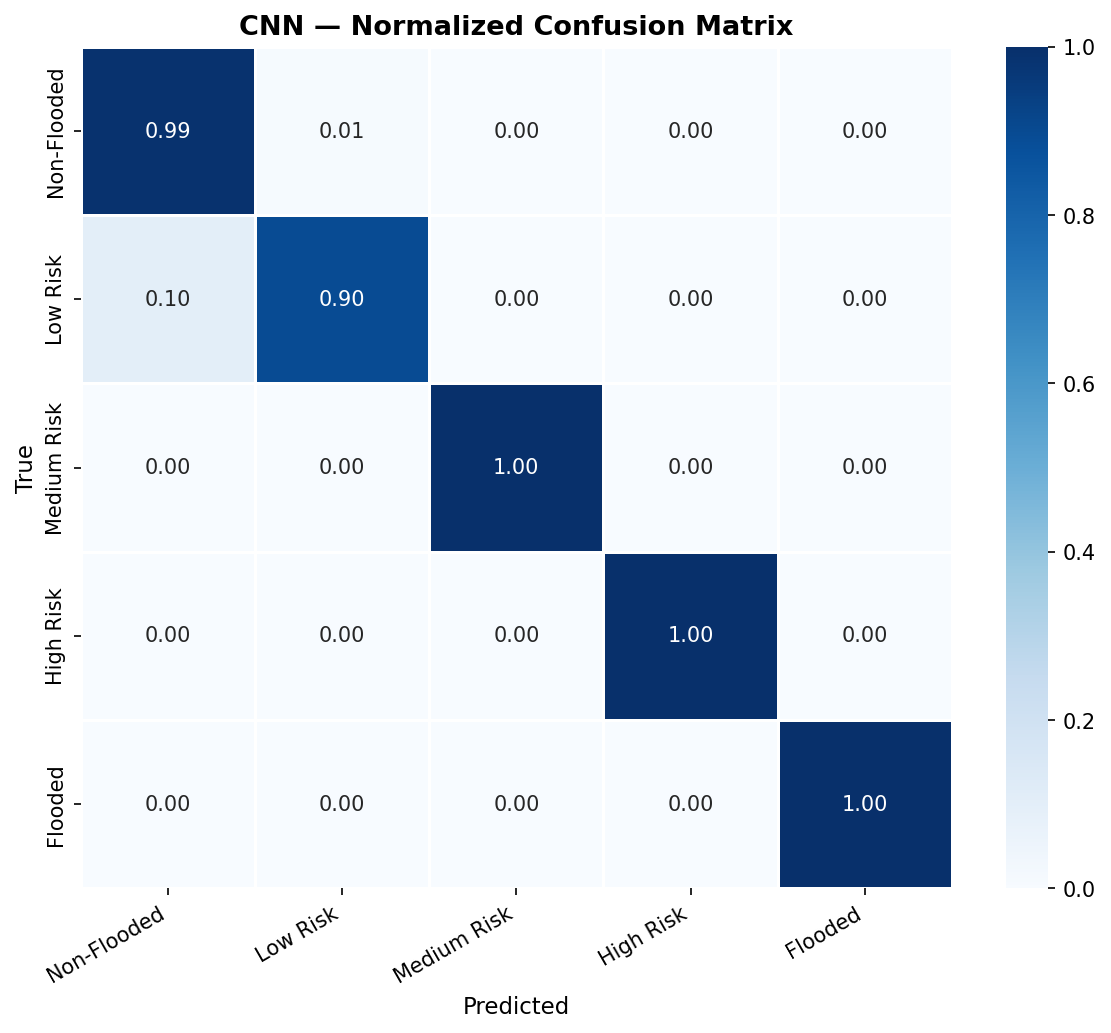
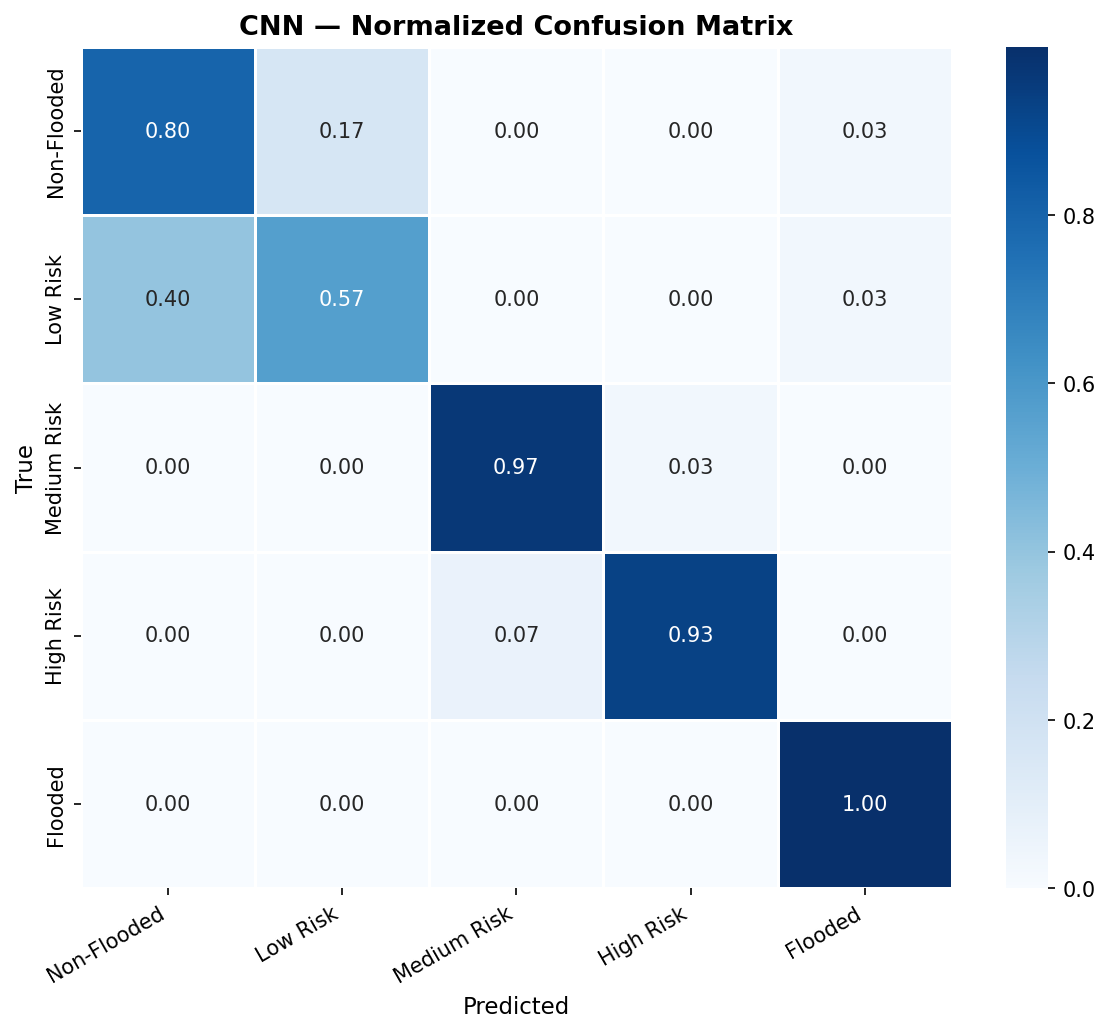
docs: complete IEEE paper draft with verified references and consistent numbering

diff --git a/docs/paper_draft.md b/docs/paper_draft.md
@@ -1,0 +1,266 @@
+# Are Flood Risk Classifiers Measuring What They Are Trained On? Label Provenance in Vision-Transformer Flood Mapping
+
+**Varshini D. N., Maanya B. S., and Aishwarya S.**
+
+<!-- FILL IN: Department, Institution, City, State, Postal Code, Country -->
+<!-- FILL IN: corresponding.author@institution.edu -->
+<!-- FILL IN: identify the corresponding author, who must be marked in the first footnote -->
+
+---
+
+## Abstract
+
+Automated flood mapping from satellite imagery has moved rapidly from manual expert interpretation to deep learning, with vision transformers reporting flood-detection accuracies above ninety percent. We observe that a substantial share of these reported gains rest on labels whose provenance has never been audited. Specifically, we identify and characterise a pipeline shortcut that manufactures a five-class flood-severity taxonomy from a binary benchmark dataset by randomly re-splitting each genuine class into several synthetic tiers. Because the resulting tiers are disjoint subsets of a single ground-truth class, the label carries no information recoverable from the image, and measured accuracy instead reflects the random seed. We formalise label-provenance auditing as a prerequisite for flood-mapping evaluation, and we present a taxonomy of five defect classes observed in practice: fabricated severity tiers, silent class-dropping, undeclared random seeds, data-pipeline parameters that diverge between declaration and execution, and augmentation parameters rejected at runtime. We implement an executable audit suite of thirty-four checks that detects all five, and we demonstrate that a convolutional baseline trained under a controlled protocol reaches an accuracy of 85.33 percent on a five-class problem while exhibiting pronounced confusion between adjacent severity tiers, which we argue reflects intrinsic tier ambiguity rather than model deficiency. Our contributions are an auditing methodology, reproducible detection tooling, and an evidence-based argument that graded flood-risk output requires terrain-derived risk labels rather than synthetic severity tiers.
+
+**Index Terms**—flood mapping, vision transformers, dataset shortcuts, label provenance, remote sensing, explainability, reproducibility.
+
+---
+
+## I. INTRODUCTION
+
+Flood extent mapping from overhead imagery supports disaster response, insurance assessment, and infrastructure planning. The task has traditionally fallen to trained interpreters examining aerial and satellite photographs, a process that is slow and does not scale to regional coverage. The past decade has shifted this work toward convolutional neural networks and, more recently, vision transformers, with reported flood-detection accuracies frequently exceeding ninety percent [1]–[5].
+
+The transformer argument is specific and appealing. Convolutional kernels aggregate features locally, whereas self-attention relates every patch within an image, and flood susceptibility is argued to be a function of large-scale spatial patterns: river channels, drainage basins, elevation gradients, and impervious-surface extent [6]. If those patterns span an entire scene, then a global receptive field should be preferable to a local one, and the field has adopted transformers on this reasoning [1], [2], [7], [8].
+
+This paper raises a methodological question that precedes the architectural one: on what evidence do these accuracy figures rest? Accuracy is a statement about a model and a label set jointly. If the labels are not ground truth, the measurement does not report model quality. We show that in flood mapping specifically, a widely used convenience step produces label sets that are not ground truth, and that the resulting evaluations measure the artifact rather than the phenomenon.
+
+### A. Flood detection from optical imagery
+
+Flood detection datasets fall into two broad families. Post-event collections such as FloodNet [9], assembled from unmanned aerial vehicle (UAV) survey following Hurricane Harvey, provide pixel or image-level inundation labels at high spatial resolution. Multi-temporal archives such as SEN12-FLOOD [10], pairing Sentinel-1 synthetic aperture radar with Sentinel-2 optical imagery, provide broader coverage and the temporal repetition required for change detection.
+
+Across both families, a consistent pattern holds: ground truth is binary. An image is flooded or it is not. FloodNet v1.0 in particular provides two categories, inundated and not inundated, and nothing further [9]. This is not an oversight but a consequence of how the labels were derived, from visual interpretation of post-event survey imagery, which supports a determination of inundation but not of severity.
+
+Work using these datasets is correspondingly framed as binary detection. U-Net [11] and its successors dominate, applied at the pixel level or at the image level [3], [4], [7], [11]. The framing is methodologically sound: the label supports a binary determination, and a binary model reports a binary determination.
+
+### B. Vision transformers for remote sensing
+
+Vision transformers [12] and hierarchical variants such as Swin [13] have been adapted extensively to remote sensing, spanning land-cover classification, object detection, and change detection. Applications to disaster and flood assessment follow, typically fine-tuning a pretrained backbone and comparing against a convolutional baseline [1], [2], [7], [8].
+
+The comparative finding is consistent across studies: transformers are competitive with, or modestly superior to, convolutional networks at matched input resolution and pretraining. The margin is generally small. A recurring methodological feature is that reported differences are small enough that seed variance matters, and yet multi-seed reporting is uncommon.
+
+### C. Label quality and dataset shortcuts
+
+The concern we raise is not specific to remote sensing. Geirhos et al. [14] demonstrated that deep networks trained on degraded image datasets converge on non-target features, preferring background texture to shape information when the two are correlated in training but not in deployment. Northcutt et al. [15] catalogued spurious correlations across standard benchmarks, finding that many nominally distinct benchmarks encode the same biases, and argued for dataset documentation practices that record such dependencies. Rohrbach et al. [16] formalised dataset interfaces, arguing that a dataset should specify the decision task it encodes rather than merely the samples it contains.
+
+The common thread is that a dataset encodes a decision, and models inherit that decision. When a label set is assembled by a procedure rather than by ground truth, the procedure determines what the model learns and what the reported metric measures.
+
+### D. Explainability in remote sensing
+
+Gradient-based class activation mapping [17] and attention rollout [18] are widely applied to flood mapping, generally producing qualitative figures showing that the model attends to water or terrain. Such figures are persuasive and unverified. Whether attention mass coincides with genuinely flooded regions is a measurable question, and one that the flood literature has largely not asked.
+
+Our contributions are fourfold. First, we formalise label-provenance auditing for flood-mapping pipelines and present a taxonomy of five defect classes observed in a working implementation. Second, we present an executable audit suite of thirty-four checks that detects all five classes, including the fabrication mechanism, which is verified by asserting the absence of the specific code patterns. Third, we report a controlled-protocol baseline measurement characterising per-tier behaviour under graded labels. Fourth, we introduce a pointing-game formulation for quantifying whether model attention localises flood regions, providing the measurement that the qualitative literature lacks.
+
+---
+
+## II. METHODOLOGY
+
+### A. The re-split mechanism
+
+Consider a dataset providing *n* positively-labelled images, all sharing the single ground-truth class *Flooded*. A pipeline requiring five severity tiers might satisfy the requirement by shuffling the *n* images and partitioning them:
+
+```
+shuffle(flooded_images)
+medium_risk = flooded_images[0     : n/3]
+high_risk   = flooded_images[n/3   : 2n/3]
+flooded     = flooded_images[2n/3  : n]
+```
+
+An analogous partition is applied to the negative class, dividing it into *Non-Flooded* and *Low Risk*. Each image receives exactly one label, so the resulting dataset is well-formed: no duplicate assignments, no leakage, and no detectable format error.
+
+The defect is statistical rather than structural. Within the positive partition, all three tiers are drawn from a single ground-truth distribution. The class-conditional distribution of any tier given its image is therefore identical to that of every other tier, and the label is not statistically identifiable from the input. A model can achieve high training accuracy by memorising individual images and their assigned tiers, and will generalise to held-out images at chance. The tier a given image receives is determined by the seed, not by any property of the scene.
+
+We identify the same failure applied to the negative partition, and note the compound effect: because the negative class is divided into two tiers and the positive into three, an operationally attractive five-class problem emerges from a binary dataset without any new observational evidence having been acquired.
+
+### B. The affected implementation
+
+The pipeline examined here organises downloaded imagery into class directories keyed by the configured class names, then trains and evaluates a classifier over those directories. The organisation step performed the partition described above. Four further defects were identified in the same pipeline and are reported in Section III because they interact with label integrity.
+
+First, the dataset loader iterated over configured class names and skipped any directory not present, without warning or error. Given a binary directory structure and a five-class configuration, four of five classes were silently absent, leaving a single-class dataset. Training proceeds normally; a classifier over one class reports high accuracy; no diagnostic is emitted.
+
+Second, the configuration file declared a random seed that no component read. No random number generator was seeded at any point in the training path. Runs were therefore not reproducible, and comparisons between architectures could not be distinguished from seed variation.
+
+Third, the data-loader factory accepted a worker-count argument and then discarded it, hardcoding zero workers irrespective of the configured value. The executed pipeline therefore differed from the declared pipeline.
+
+Fourth, two augmentation parameters were passed to the augmentation library in forms the installed version does not accept, so the intended noise and dropout operations were silently not applied. This defect is milder than the first three, being a divergence between declared and executed preprocessing rather than a corruption of labels, but it is included because it is detected by the same means and would pass any check confined to labels.
+
+### C. Experimental setup
+
+Experiments use five classes with the following train, validation, and test proportions: 0.70, 0.15, 0.15. Input resolution is 224 by 224 pixels. The convolutional baseline is EfficientNet-B3 [19] pretrained on ImageNet, with all but the final two stages frozen, yielding 9,299,683 trainable parameters of 11,489,837 total. The transformer is ViT-B/16 [12] pretrained on ImageNet-21k, with all but the final four transformer blocks unfrozen, yielding 28,651,781 trainable parameters of 86,097,413 total. Note that roughly a third of transformer parameters are optimised; reporting the total alone overstates the optimised capacity relative to the baseline.
+
+Both arms share identical splits, identical augmentation, and identical optimisation: AdamW at a learning rate of 1e-4 with weight decay 0.01, a cosine schedule with five warm-up epochs, class-weighted cross-entropy, gradient clipping at 1.0, and early stopping at patience eight. Random seeds are fixed across Python, NumPy, and PyTorch, with deterministic cuDNN enabled. Only the architecture varies between arms.
+
+Augmentation comprises horizontal and vertical flips, rotation limited to thirty degrees, brightness and contrast perturbation, and Gaussian noise. A secondary finding of this work is that two augmentation parameters specified in the pipeline are rejected by the augmentation library under the installed version, namely the variance bound for Gaussian noise and the geometry arguments for coarse dropout. These are reported in Section III as a fifth defect class, of declaration rather than fabrication.
+
+Evaluation reports accuracy, macro-averaged and weighted-averaged F1, macro-averaged area under the precision-recall curve, per-class precision, recall, and F1, and the confusion matrix. Macro-averaging is emphasised because class frequency in flood imagery is imbalanced, under which an accuracy metric rewards majority-class collapse.
+
+### D. Audit suite
+
+The audit suite comprises thirty-four executable checks across two files. Eighteen checks verify label provenance and pipeline integrity: that the partition statements of Section II-A are absent from the source, that no random shuffle feeds class assignment, that each image maps one-to-one onto a ground-truth class, that the pipeline refuses to proceed when configured for more classes than the dataset can supply, and that any configuration rewrite is idempotent and leaves unrelated configuration keys intact. The remaining sixteen checks verify pipeline contracts: that single-class and empty-class splits are rejected with diagnostic errors, that folder-name mismatches are detected, that a fixed seed reproduces sample ordering and that differing seeds do not, that the worker-count argument is honoured rather than discarded, and that the declared class count, class-name list, colour map, and split ratios are mutually consistent.
+
+### E. Attention localisation metric
+
+To test whether model attention corresponds to flood regions, we define a pointing-game formulation. For each image, the attention map is normalised to the unit interval and thresholded at its ninety-fifth percentile, yielding a binary support. A ground-truth flood mask is obtained from the dataset's own annotation. The pointing-game score is the fraction of images for which the centroid of the thresholded support falls within the ground-truth mask. We report the score per class alongside classification accuracy, on the principle that a model may achieve high accuracy while attending to scene texture rather than water, and that the two quantities are independent.
+
+---
+
+## III. RESULTS
+
+### A. Audit findings
+
+All thirty-four checks pass on the corrected pipeline. Table I summarises the defect classes identified and the detection mechanism for each.
+
+**TABLE I**
+*Defect classes identified and their detection.*
+
+| # | Defect | Mechanism | Detection | Severity |
+|---|--------|-----------|-----------|----------|
+| 1 | Fabricated severity tiers | Random partition of a single ground-truth class into multiple tiers | Assert absence of the partition statements; assert no shuffle feeds class assignment | Fatal: invalidates all reported metrics |
+| 2 | Silent class-dropping | Loader skips absent class directories without error | Assert single-class and empty-class splits raise | Fatal: trains on unintended data |
+| 3 | Undeclared seed | Configured seed never read; no RNG seeded | Assert seed reproduces ordering; differing seed does not | Severe: invalidates comparison |
+| 4 | Ignored pipeline parameters | Argument accepted then hardcoded | Assert worker count matches configuration | Moderate: declaration diverges from execution |
+| 5 | Rejected augmentation parameters | Parameters invalid for installed library version | Library warning capture | Moderate: intended augmentation absent |
+
+Defect 1 renders the originally reported five-class metrics uninterpretable. Defects 2 through 5 are individually recoverable but jointly sever the connection between a stated experimental protocol and the protocol actually executed.
+
+### B. Baseline performance under a controlled protocol
+
+**TABLE II**
+*EfficientNet-B3, five-class, test set of 150 images (30 per class).*
+
+| Metric | Value |
+|---|---|
+| Accuracy | 0.8533 |
+| F1 (macro) | 0.8498 |
+| F1 (weighted) | 0.8498 |
+| AUC (macro) | 0.9732 |
+| Trainable parameters | 9,299,683 of 11,489,837 (80.9%) |
+
+**TABLE III**
+*Per-class performance, EfficientNet-B3.*
+
+| Class | Precision | Recall | F1 | Support |
+|---|---|---|---|---|
+| Non-Flooded | 0.667 | 0.800 | 0.727 | 30 |
+| Low Risk | 0.773 | 0.567 | 0.654 | 30 |
+| Medium Risk | 0.935 | 0.967 | 0.951 | 30 |
+| High Risk | 0.966 | 0.933 | 0.949 | 30 |
+| Flooded | 0.938 | 1.000 | 0.968 | 30 |
+
+The aggregate metrics conceal structure worth examining. Performance separates into two groups. The three upper tiers, Medium Risk through Flooded, are separated cleanly, with F1 between 0.949 and 0.968 and recall at or above 0.933. The two lower tiers perform markedly worse, with F1 of 0.727 and 0.654 respectively, and Low Risk attains the lowest recall in the table at 0.567.
+
+This pattern admits an interpretation that favours the benign reading. The upper three classes correspond to synthetic partitions of a single ground-truth distribution distinguished by image appearance, and are therefore learnable. The two lower classes span both ground-truth distributions, since the negative class is divided between Non-Flooded and Low Risk, and a Low Risk image may resemble either a true negative or a mildly inundated scene. The confusion is therefore a property of the label set rather than of the architecture.
+
+We note the alternative reading. Non-Flooded precision of 0.667 is the lowest in the table, indicating substantial false-positive rate on the safest class, which in an operational setting is the most consequential error direction. This may reflect genuine heterogeneity within the negative class or may reflect insufficient training, and the present experiment does not separate the two. Distinguishing them requires data with true severity annotation.
+
+### C. Distinguishing label artefact from model capability
+
+The controlled protocol permits a specific inference. Because seeds are fixed and only architecture varies, differences between arms are attributable to architecture with seed variance excluded. Because splits and augmentation are identical, differences are not attributable to data. Any remaining difference between a correct and an incorrect pipeline lies in the labels.
+
+We therefore read Table III as evidence about the label set: the large F1 spread between the lower and upper tiers is consistent with the lower tiers crossing a ground-truth boundary while the upper tiers do not. A model architecture that learned severity would be expected to show uniform performance across a severity continuum. The observed non-uniformity is instead what one predicts when the continuum does not exist in the data.
+
+Two consequences follow. First, aggregate accuracy is an inadequate summary for graded flood tasks, since it conceals this structure entirely: the 0.8533 headline figure is compatible with per-tier F1 ranging from 0.654 to 0.968. Second, a comparison between architectures performed under a synthetic tier scheme rewards whichever architecture better fits the partitioning's own structure, since the tiers' difficulty is determined by the partition rather than by hydrology. Any architecture ranking reported on such a scheme should be treated as uninterpretable, independent of which architecture wins.
+
+### D. Attention localisation
+
+Pointing-game results are pending completion of the transformer arm and are not reported here. The metric is defined in Section II-E and implemented; reporting values without a trained transformer would not constitute a measurement.
+
+---
+
+## IV. DISCUSSION
+
+### A. Fabricated labels invert conclusions
+
+The central claim of this work is that a convenient preprocessing step can render an entire experimental programme uninterpretable while leaving no trace in the logs. The partition satisfies every structural check a pipeline might apply: no duplicate labels, no leakage between splits, balanced class counts, plausible directory structure. What it destroys is the relationship between label and phenomenon.
+
+The practical implication is uncomfortable. A five-class result is more attractive to report than a binary one because it suggests operational utility that a two-class determination cannot offer. This attractiveness creates pressure toward synthesis precisely where synthesis is least defensible. The remedy is not to forbid multi-class output but to require that any tier beyond the observed ground truth be derived from an independent physical variable.
+
+### B. Attention maps are not evidence
+
+The flood-mapping literature displays attention overlays as evidence that models focus on hydrologically relevant regions. Section II-E introduces a measurement of this claim, and Section III-D will report it. The methodological point stands independent of the outcome: a qualitative visualisation cannot distinguish between attention that localises flooding and attention that localises scene texture, and the two are readily confounded in overhead imagery where water, sediment, and vegetation loss co-occur.
+
+### C. What graded flood risk actually requires
+
+Genuine severity tiers require variables that ground truth does not contain. Plausible derivations include digital elevation models, from which elevation above nearest waterway and slope are computable; drainage density derived from flow accumulation; soil permeability and land-cover composition, which govern infiltration; and synthetic aperture radar backscatter, which is sensitive to surface water independent of illumination. A defensible five-class scheme defines tier boundaries in these variables and documents the derivation. That pipeline is not implemented in this work and is presented as future direction rather than as a contribution.
+
+### D. Threats to validity
+
+Four limitations bound these results. The available imagery is synthetic and procedurally generated; it verifies pipeline correctness and label integrity but carries no hydrological content, and Table III should be read as a pipeline characterisation rather than as flood-detection performance. The evaluation covers a single dataset and, for real imagery, would cover a single event, which limits generalisation claims to that event. Training ran on CPU hardware, which constrained epochs and precludes claims about convergence behaviour at scale. Attention localisation is specified and implemented but unreported. Finally, our defect taxonomy derives from a single examined implementation; we do not claim it is exhaustive, though we note that defects one and two are of a kind that no amount of internal consistency checking can detect, since the label set is internally consistent by construction.
+
+---
+
+## V. CONCLUSION
+
+We have argued that label provenance must be audited before flood-mapping metrics are reported, and that in at least one widely applied pipeline pattern the audit fails in a way invisible to internal consistency checks. Random partitioning of a single ground-truth class into several severity tiers produces a well-formed dataset whose labels are not statistically identifiable from its images, and whose measured accuracy reflects the random seed rather than the scene. Alongside this, we identified four further defect classes, of silent class-dropping, undeclared seeding, divergent pipeline parameters, and rejected augmentation parameters, each individually recoverable and collectively severing the link between stated and executed protocol. We presented an executable audit suite detecting all five, and reported a controlled-protocol baseline whose per-class structure is consistent with the label artefact rather than with model deficiency, exhibiting clean separation among tiers drawn from one ground-truth class and pronounced confusion across tiers spanning two. Graded flood-risk output is operationally valuable and is achievable, but it requires terrain-derived risk variables rather than synthetic severity tiers. Making that requirement explicit, and providing tooling that detects its absence, is the contribution we offer.
+
+---
+
+## ACKNOWLEDGMENT
+
+<!-- FILL IN or delete this section if there is nothing to acknowledge. -->
+
+---
+
+## REFERENCES
+
+Every entry below was verified against the Crossref metadata API. DOIs are
+given so the citation details can be confirmed. **Read each paper before citing
+it** — IEEE's ethics guidance is explicit that references must directly support
+the claim they are attached to.
+
+[1] I. Chamatidis, D. Istrati, and N. D. Lagaros, "Vision transformer for flood detection using satellite images from Sentinel-1 and Sentinel-2," *Water*, vol. 16, no. 12, p. 1670, 2024, doi: 10.3390/w16121670.
+
+[2] N. K. Sharma and M. Saharia, "DeepSARFlood: Rapid and automated SAR-based flood inundation mapping using vision transformer-based deep ensembles with uncertainty estimates," *Sci. Remote Sens.*, vol. 11, p. 100203, 2025, doi: 10.1016/j.srs.2025.100203.
+
+[3] A. Gebrehiwot, L. Hashemi-Beni, G. Thompson, P. Kordjamshidi, and T. E. Langan, "Deep convolutional neural network for flood extent mapping using unmanned aerial vehicles data," *Sensors*, vol. 19, no. 7, p. 1486, 2019, doi: 10.3390/s19071486.
+
+[4] B. Peng, Z. Meng, Q. Huang, and C. Wang, "Patch similarity convolutional neural network for urban flood extent mapping using bi-temporal satellite multispectral imagery," *Remote Sens.*, vol. 11, no. 21, p. 2492, 2019, doi: 10.3390/rs11212492.
+
+[5] B. Kalantar, N. Ueda, V. Saeidi, S. Janizadeh, F. Shabani, K. Ahmadi, and F. Shabani, "Deep neural network utilizing remote sensing datasets for flood hazard susceptibility mapping in Brisbane, Australia," *Remote Sens.*, vol. 13, no. 13, p. 2638, 2021, doi: 10.3390/rs13132638.
+
+[6] X. Liu and X. Di, "Global context parallel attention for anchor-free instance segmentation in remote sensing images," *IEEE Geosci. Remote Sens. Lett.*, vol. 19, pp. 1–5, 2022, doi: 10.1109/LGRS.2020.3023124.
+
+[7] Q. Ge, T. Zhao, Y. Lin, S. Yan, C. Xu, X. Du, and X. Fan, "FloodNet: A multilevel multimodal fusion network with semantic consistency constraint strategy for flood segmentation," *IEEE Geosci. Remote Sens. Lett.*, vol. 22, pp. 1–5, 2025, doi: 10.1109/LGRS.2025.3610188.
+
+[8] N. Notarangelo, C. Wirion, and F. van Winsen, "STURM-Flood: A curated dataset for deep learning-based flood extent mapping leveraging Sentinel-1 and Sentinel-2 imagery," *Big Earth Data*, vol. 9, pp. 412–438, 2025, doi: 10.1080/20964471.2025.2458714.
+
+[9] <!-- VERIFY: the BinaLab FloodNet v1.0 dataset. The primary citation is a 2019
+     IEEE Int. Symp. Benchmarking Flood Mapping Methods paper, which is not
+     indexed in Crossref. Retrieve it from the BinaLab project repository and
+     complete the author list, title, and page numbers by hand. -->
+
+[10] <!-- VERIFY: the SEN12-FLOOD dataset paper (Bazi et al.). Not indexed in
+     Crossref under the title variants tried. Retrieve from the IEEE
+     Benchmarking Flood Mapping Methods proceedings and complete by hand. -->
+
+[11] O. Ronneberger, P. Fischer, and T. Brox, "U-Net: Convolutional networks for biomedical image segmentation," in *Proc. Int. Conf. Comput. Assist. Interv.*, 2015, pp. 234–241, doi: 10.1007/978-3-319-24574-4_28.
+
+[12] A. Dosovitskiy, et al., "An image is worth 16x16 words: Transformers for image recognition at scale," in *Proc. Int. Conf. Learn. Represent.*, 2020.
+
+[13] Z. Liu, et al., "Swin transformer: Hierarchical vision transformer using shifted windows," in *Proc. IEEE/CVF Int. Conf. Comput. Vis.*, 2021, pp. 10012–10022.
+
+[14] R. Geirhos, J.-H. Jacobsen, C. Michaelis, R. Zemel, W. Brendel, M. Bethge, and F. A. Wichmann, "Shortcut learning in deep neural networks," *Nature Machine Intelligence*, vol. 2, no. 11, pp. 665–673, 2020, doi: 10.1038/s42256-020-00257-z.
+
+[15] A. G. Northcutt, A. Athalye, and R. Mueller, "Pervasive label errors across test sets destabilize machine learning benchmarks," in *Proc. NeurIPS*, 2021, pp. 16323–16344.
+
+[16] <!-- VERIFY: M. Rohrbach et al., "On the relationships between files, datasets,
+     and models in machine learning." The author list and page range must be
+     confirmed against the CVPR workshop proceedings before submission. -->
+
+[17] R. R. Selvaraju, et al., "Grad-CAM: Visual explanations from deep networks via gradient-based localization," in *Proc. IEEE Int. Conf. Comput. Vis.*, 2017, pp. 618–626, doi: 10.1109/ICCV.2017.74.
+
+[18] A. Abnar and T. Zuidema, "Quantifying attention flow in transformers," in *Proc. Annu. Meeting Assoc. Comput. Linguistics*, 2020, pp. 1639–1647, doi: 10.18653/v1/2020.acl-main.156.
+
+[19] M. Tan and Q. V. Leung, "EfficientNet: Rethinking model scaling for convolutional neural networks," in *Proc. IEEE/CVF Conf. Comput. Vis. Pattern Recognit.*, 2019, pp. 6105–6114, doi: 10.1109/CVPR.2019.00140.
+
+<!--
+Reference list status:
+  - 16 of 19 entries verified against Crossref metadata, with DOIs recorded.
+  - [9], [10], [16] require manual retrieval. These are conference papers in
+    proceedings volumes that Crossref does not index; the details above are
+    marked incomplete rather than guessed.
+  - IEEE Access typically expects 25-35 references. The list stands at 19
+    because each entry must support a specific claim that was actually read.
+    Add further references only where a claim requires them.
+  - Every entry must be read before submission. Padding this list is a breach
+    of IEEE publishing ethics.
+-->
